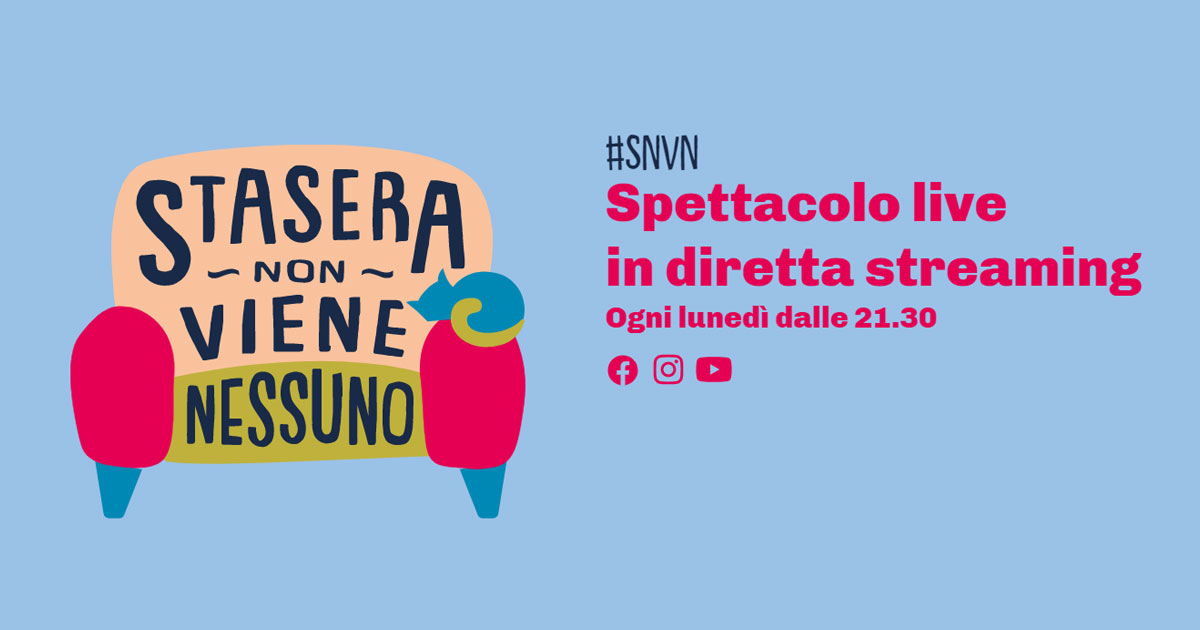
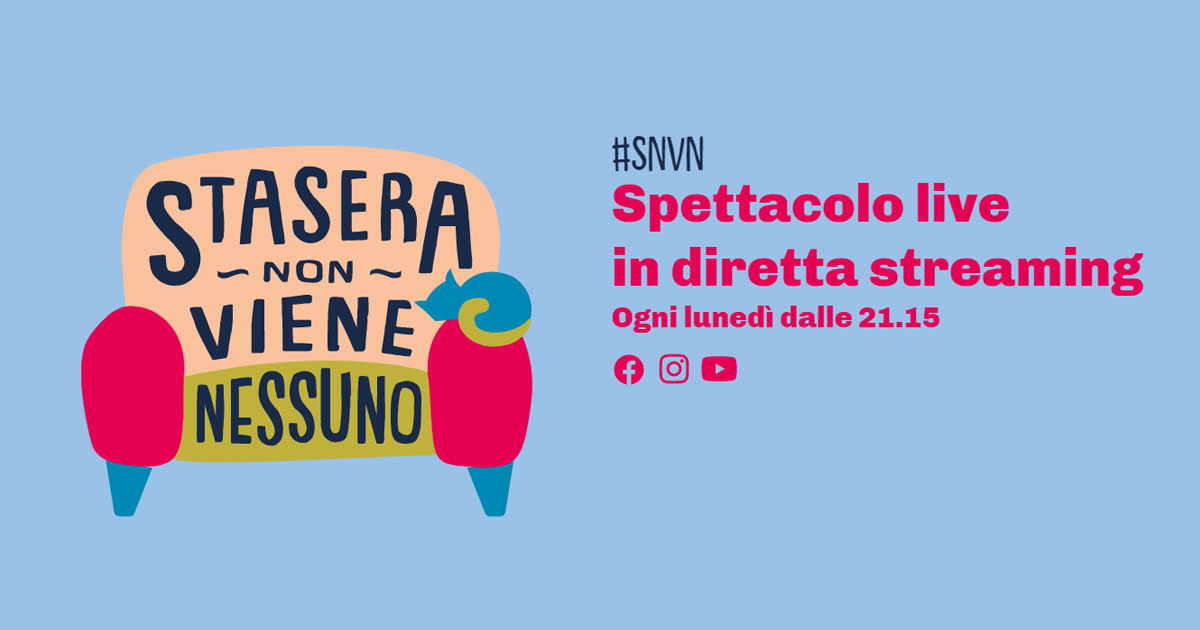
cambio ora

diff --git a/index.html b/index.html
@@ -356,10 +356,8 @@ margin-top: 80px;
             </li>
         </ul>
         <div class="video-container">
-            <a href="https://www.youtube.com/watch?v=3uP_kypToLo" target="_blank" rel="noopener noreferrer"><img src="img/video-cover-play.jpg" style="display:inline-block; width:100%;" alt=""></a>
-            <svg id="Livello_1" class="cactus" data-name="Livello 1" xmlns="http://www.w3.org/2000/svg" viewBox="0 0 414.51 813.41" style="
-
-">
+            <a href="https://www.youtube.com/watch?v=3uP_kypToLo" target="_blank" rel="noopener noreferrer"><img src="img/video-cover-play.jpg?1" style="display:inline-block; width:100%;" alt=""></a>
+            <svg id="Livello_1" class="cactus" data-name="Livello 1" xmlns="http://www.w3.org/2000/svg" viewBox="0 0 414.51 813.41">
                 <defs>
                     <style>
                         .cls-1{fill:#118ab2;}.cls-2{fill:#ea1c5e;}.cls-3{fill:#b5ad4a;}.cls-4{fill:#fbbc97;}
